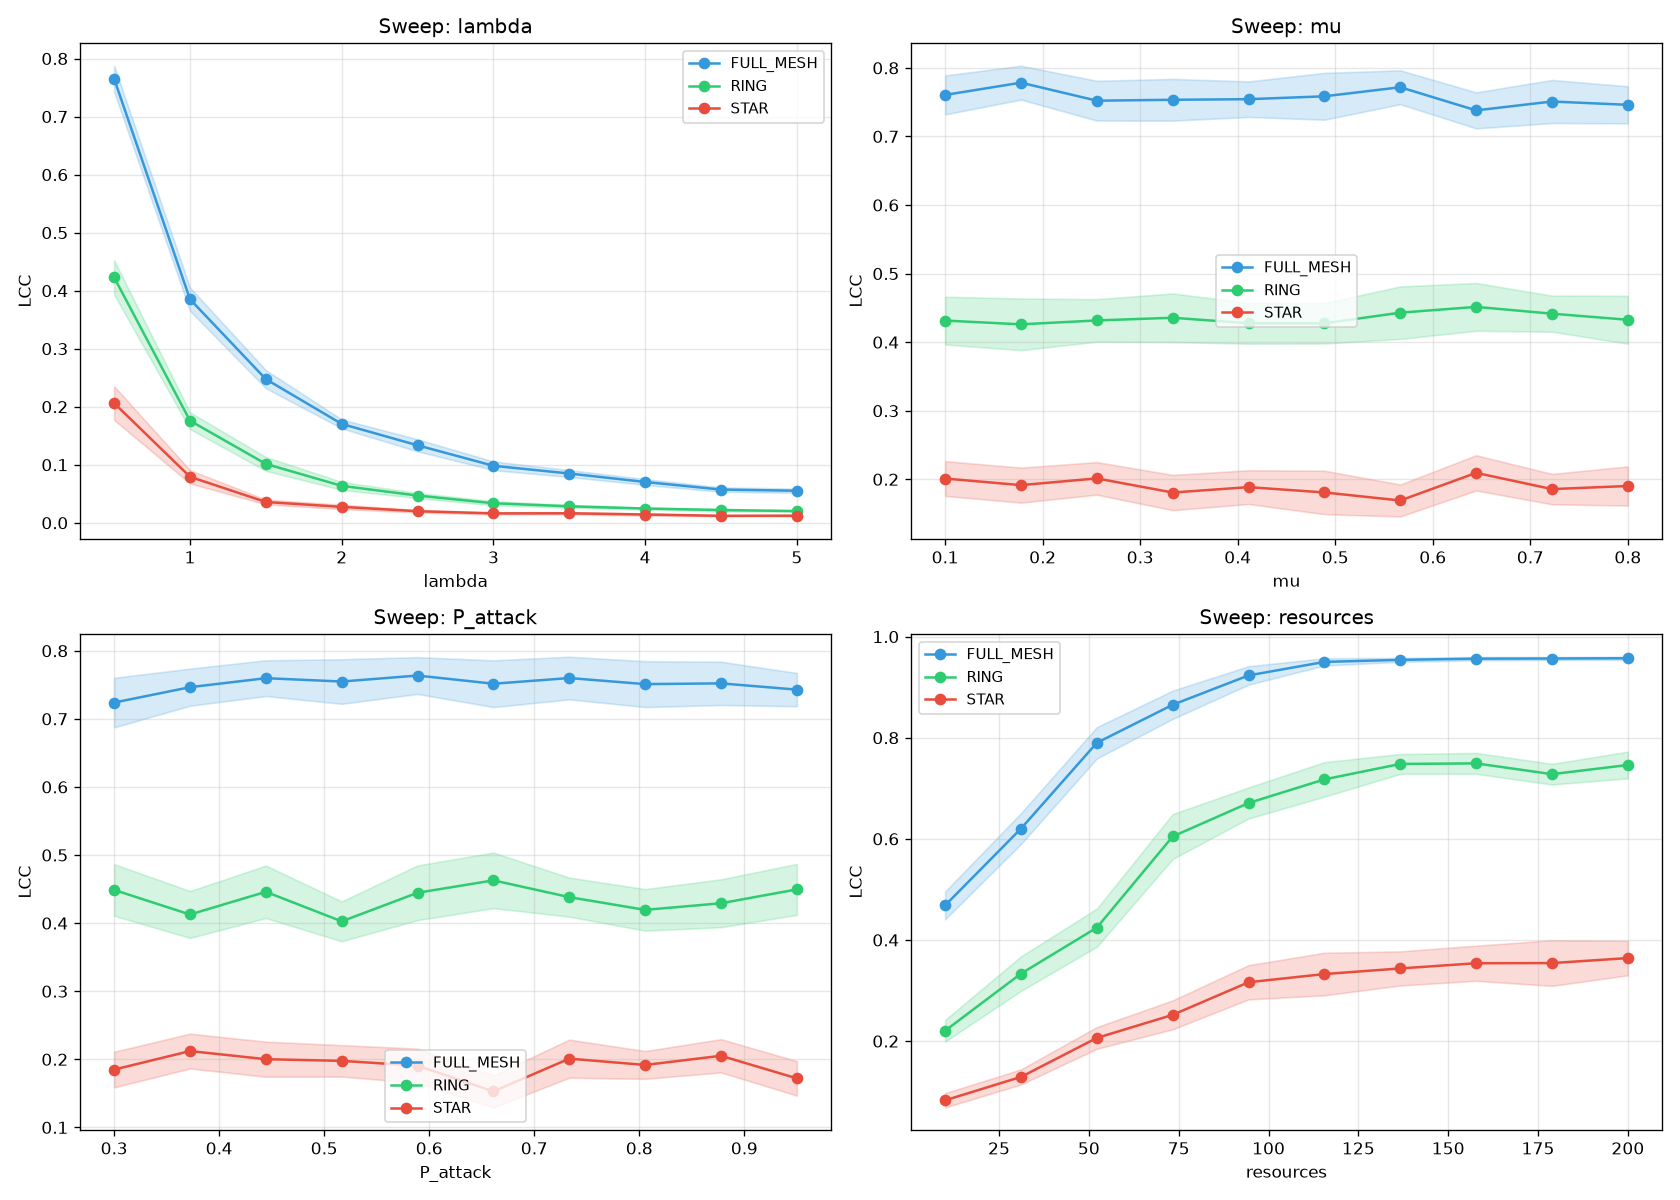
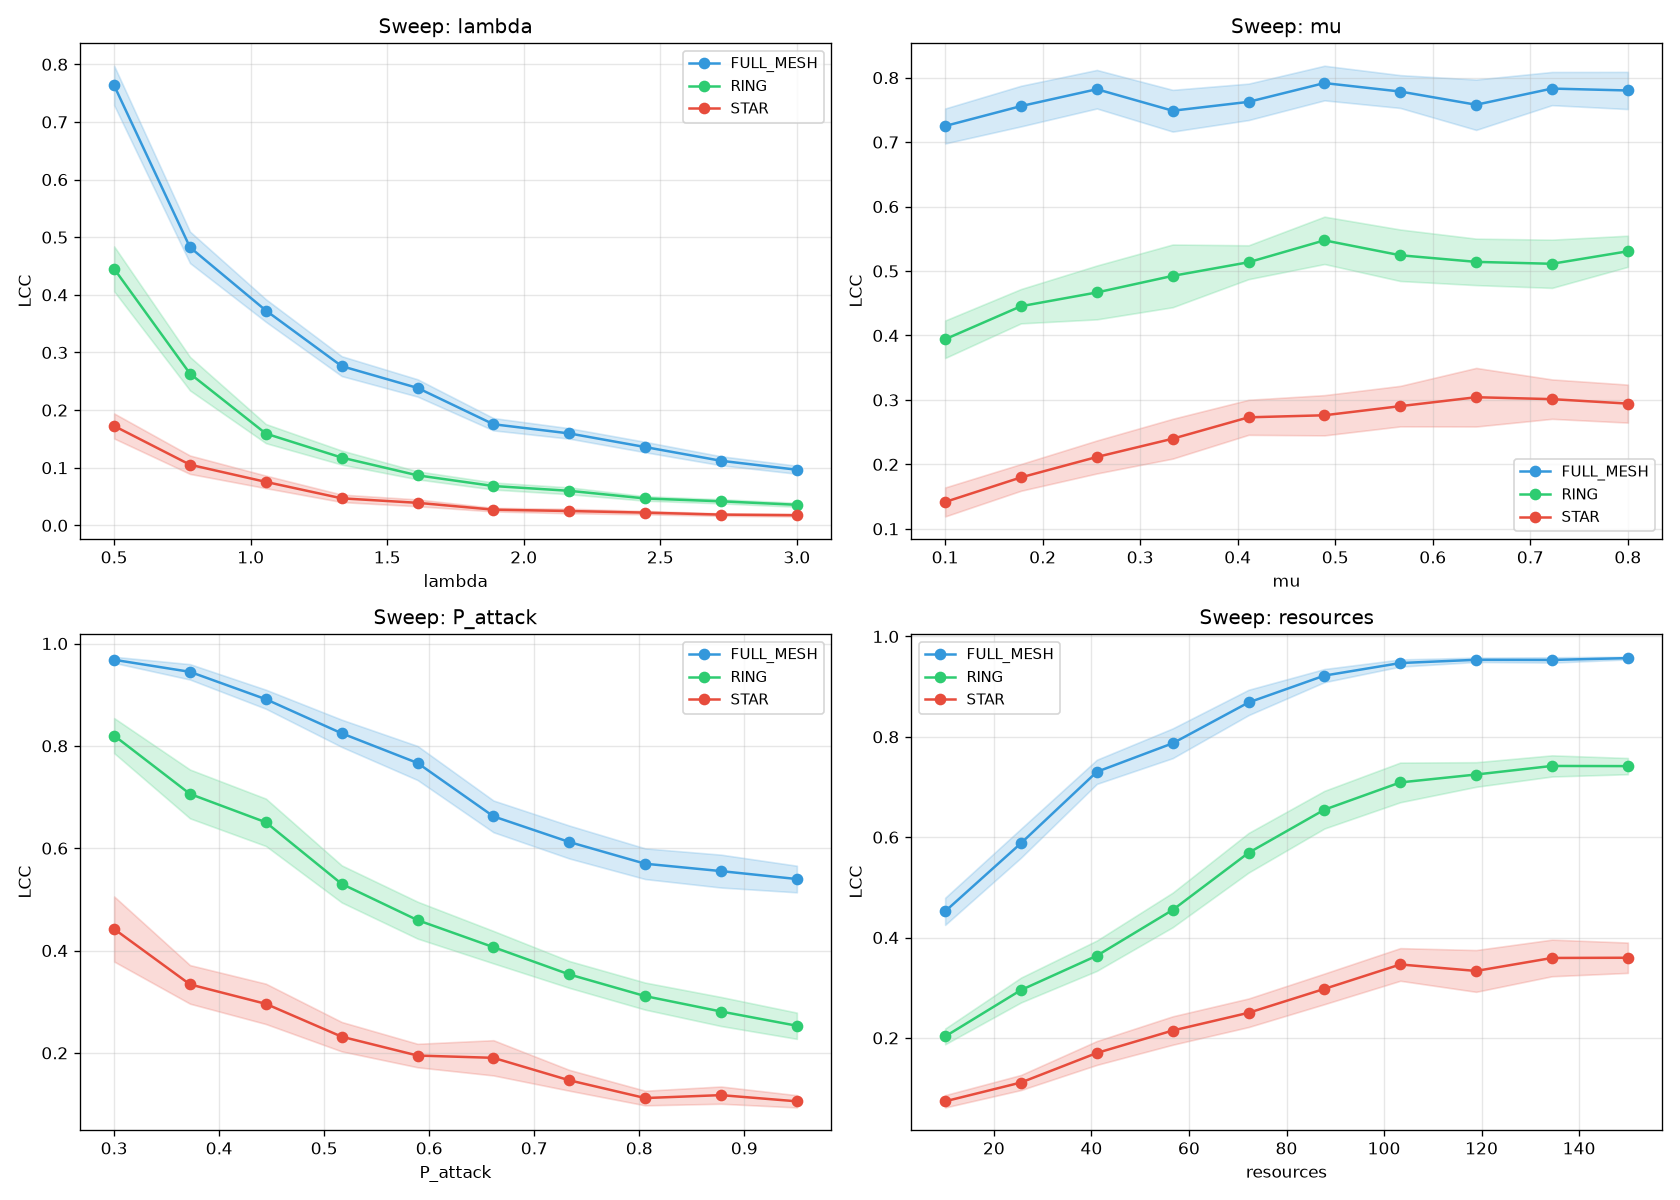
была отредактирована логика взаимодействия с базовыми значениями параметров mu и p_attack в реджиме sweep

diff --git a/topology.cpp b/topology.cpp
@@ -79,19 +79,20 @@ Graph createNetworkTopology(
         if (heterogeneous) {
             std::string ntype = sampleType(rng, node_mix);
             const NodeProfile& prof = NODE_PROFILES.at(ntype);
-            n.node_type  = ntype;
-            n.P_attack   = jitter(rng, prof.P_attack,   0.05);
-            n.P_recovery = jitter(rng, prof.P_recovery,  0.05);
-            n.mu         = clamp(prof.mu + std::uniform_real_distribution<double>(-0.02,0.02)(rng), 0.01, 1.0);
-            n.C_repair   = prof.C_repair;
-            n.weight     = prof.weight;
-        } else {
-            n.node_type  = "host";
-            n.P_attack   = clamp(base_P_attack   + u05(rng), 0.01, 0.99);
-            n.P_recovery = clamp(base_P_recovery + u05(rng), 0.01, 0.99);
-            n.mu         = clamp(base_mu         + u01(rng), 0.01, 1.00);
-            n.C_repair   = base_C_repair;
-            n.weight     = base_weight;
+            n.node_type = ntype;
+
+            // ── Множители для sweep ──────────────────────────────────────
+            // Базовые значения (0.60 для P_attack, 0.20 для mu) используются
+            // как точка отсчёта. Если sweep задаёт base_mu=0.40 (в 2 раза больше),
+            // то все mu узлов удваиваются, сохраняя пропорции между типами.
+            double mu_mult = (base_mu > 0.0) ? (base_mu / 0.20) : 1.0;
+            double p_attack_mult = (base_P_attack > 0.0) ? (base_P_attack / 0.60) : 1.0;
+
+            n.P_attack = jitter(rng, prof.P_attack * p_attack_mult, 0.05);
+            n.P_recovery = jitter(rng, prof.P_recovery, 0.05);
+            n.mu = clamp(prof.mu * mu_mult + std::uniform_real_distribution<double>(-0.02, 0.02)(rng), 0.01, 1.0);
+            n.C_repair = prof.C_repair;
+            n.weight = prof.weight;
         }
     }
 

diff --git a/csv_export.cpp b/csv_export.cpp
@@ -4,15 +4,8 @@
 #include <iomanip>
 #include <filesystem>
 
-namespace fs = std::filesystem;
-
 static void ensureDir(const std::string& path) {
-    try {
-        fs::create_directories(path); // Кроссплатформенное создание папок
-    }
-    catch (...) {
-        std::cerr << "Не удалось создать папку: " << path << "\n";
-    }
+    std::filesystem::create_directories(path);
 }
 
 void exportTimeSeries(const SimResult& res, const std::string& path) {